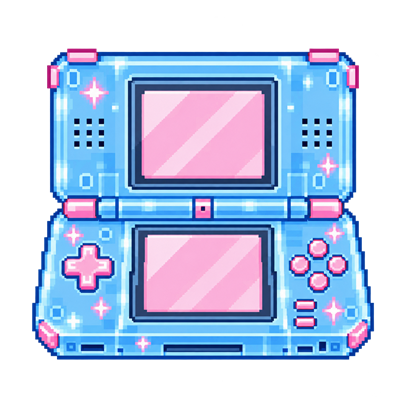
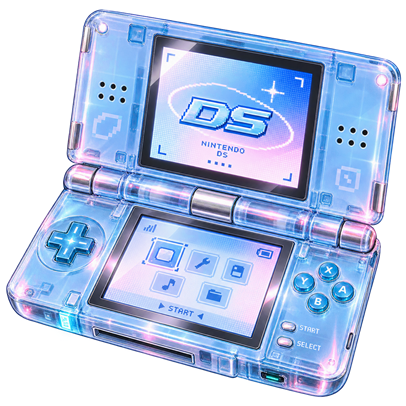
Use the real upper-screen console renders, drop the carousel label, add title shadow
The upper screen was showing the touch carousel tile for several consoles. The
two are different artwork: the carousel tile is the pixel variant, while the
"Console art / selected" node holds a high-resolution render. Import each
console's art from its own node so the upper screen shows the render.

N64 and Music have no such node in reach, so they lose their stand-in and show
the empty chrome frame instead of the wrong picture.

Re-centre every tile on its own artwork bounding box when building it. Figma's
exports carry uneven transparent padding, which is what left the console
sitting low inside the ring; with that removed the tile lands on the ring
centre at (400, 205), measured from both ring assets.

Remove the green console name from the touch screen, and give the upper-screen
title a drop shadow. QML cannot blur without QtGraphicalEffects, so the shadow
is a second copy of the text drawn behind and offset, plus a faint outline,
which lifts the gradient off the glass button.

diff --git a/pegasus/themes/d2k/TouchConsoleSelector.qml b/pegasus/themes/d2k/TouchConsoleSelector.qml
@@ -47,10 +47,11 @@ Item {
     }
 
     // Both ring assets measure their centre at (400, 205) in panel coordinates,
-    // so a 189x189 tile centres at y = 205 - 94.5. Figma's own frames drift
-    // between y 86 and 126 across the selector states.
+    // so a 189x189 tile centres at x = 400 - 94.5 and y = 205 - 94.5. The tiles
+    // are re-centred on their own artwork at build time, so this lands the
+    // console in the middle of the ring.
     Image {
-        x: 305; y: 110; width: 189; height: 189
+        x: 305.5; y: 110.5; width: 189; height: 189
         source: panel.theme.carouselSource(panel.collection)
         visible: source != ""
         fillMode: Image.PreserveAspectFit
@@ -62,22 +63,6 @@ Item {
         source: "assets/console-frame-front.png"
         fillMode: Image.PreserveAspectFit
         smooth: true
-    }
-
-    // Figma only ever shows short ids here ("DS"), which sit inside the ring's
-    // clear centre and below the chrome overlay. DREAMCAST and GAMECUBE are
-    // wide enough to reach the ring, so the box is widened (still centred on
-    // 400 as in the design) and the label is drawn above the chrome.
-    Text {
-        x: 190; y: 300; width: 420; height: 24
-        text: panel.theme.consoleId(panel.collection).toUpperCase()
-        color: panel.theme.limeInk
-        font.family: panel.theme.badgeFont
-        font.pixelSize: 29
-        fontSizeMode: Text.HorizontalFit
-        minimumPixelSize: 13
-        horizontalAlignment: Text.AlignHCenter
-        verticalAlignment: Text.AlignVCenter
     }
 
     ControlButton {

diff --git a/pegasus/themes/d2k/TopConsole.qml b/pegasus/themes/d2k/TopConsole.qml
@@ -74,11 +74,31 @@ Item {
     // truncates "NINTENDO DS". The box is widened to the glass button's inner
     // width, still centred on 404.5, and long console names shrink to fit
     // rather than elide.
+    //
+    // Figma puts a drop shadow under this title. QML cannot blur without
+    // QtGraphicalEffects, so the shadow is a second copy of the same text drawn
+    // behind and offset, which lifts the gradient off the glass button.
+    Text {
+        x: 174; y: 401; width: 461; height: 57
+        text: panel.theme.consoleDisplayName(panel.collection).toUpperCase()
+        color: "#000000"
+        opacity: 0.45
+        font.family: panel.theme.consoleFont
+        font.pixelSize: 40
+        font.letterSpacing: -1
+        fontSizeMode: Text.HorizontalFit
+        minimumPixelSize: 22
+        horizontalAlignment: Text.AlignHCenter
+        verticalAlignment: Text.AlignVCenter
+    }
+
     Text {
         x: 174; y: 398; width: 461; height: 57
         text: panel.theme.gradientMarkup(
                   panel.theme.consoleDisplayName(panel.collection).toUpperCase())
         textFormat: Text.StyledText
+        style: Text.Outline
+        styleColor: "#40102040"
         color: panel.theme.pearlMist
         font.family: panel.theme.consoleFont
         font.pixelSize: 40

diff --git a/pegasus/themes/d2k/D2KTheme.qml b/pegasus/themes/d2k/D2KTheme.qml
@@ -41,7 +41,10 @@ Item {
     // Which consoles have artwork in the Figma file. Listing them avoids asking
     // Qt to load images that do not exist, which would log a warning per frame.
     readonly property var carouselArtwork: ["ds", "dreamcast", "ps1", "n64", "gamecube", "3ds", "music"]
-    readonly property var consoleArtwork: ["ds", "dreamcast", "ps1", "n64", "gamecube", "3ds", "music"]
+    // N64 and Music have no "Console art / selected" source in the Figma file
+    // yet, so their upper screen shows the empty chrome frame rather than the
+    // touch carousel tile, which is different artwork.
+    readonly property var consoleArtwork: ["ds", "dreamcast", "ps1", "gamecube", "3ds"]
 
     // Shorter names for the upper screen, where the full collection name runs
     // past the glass button. Anything not listed keeps its collection name.
